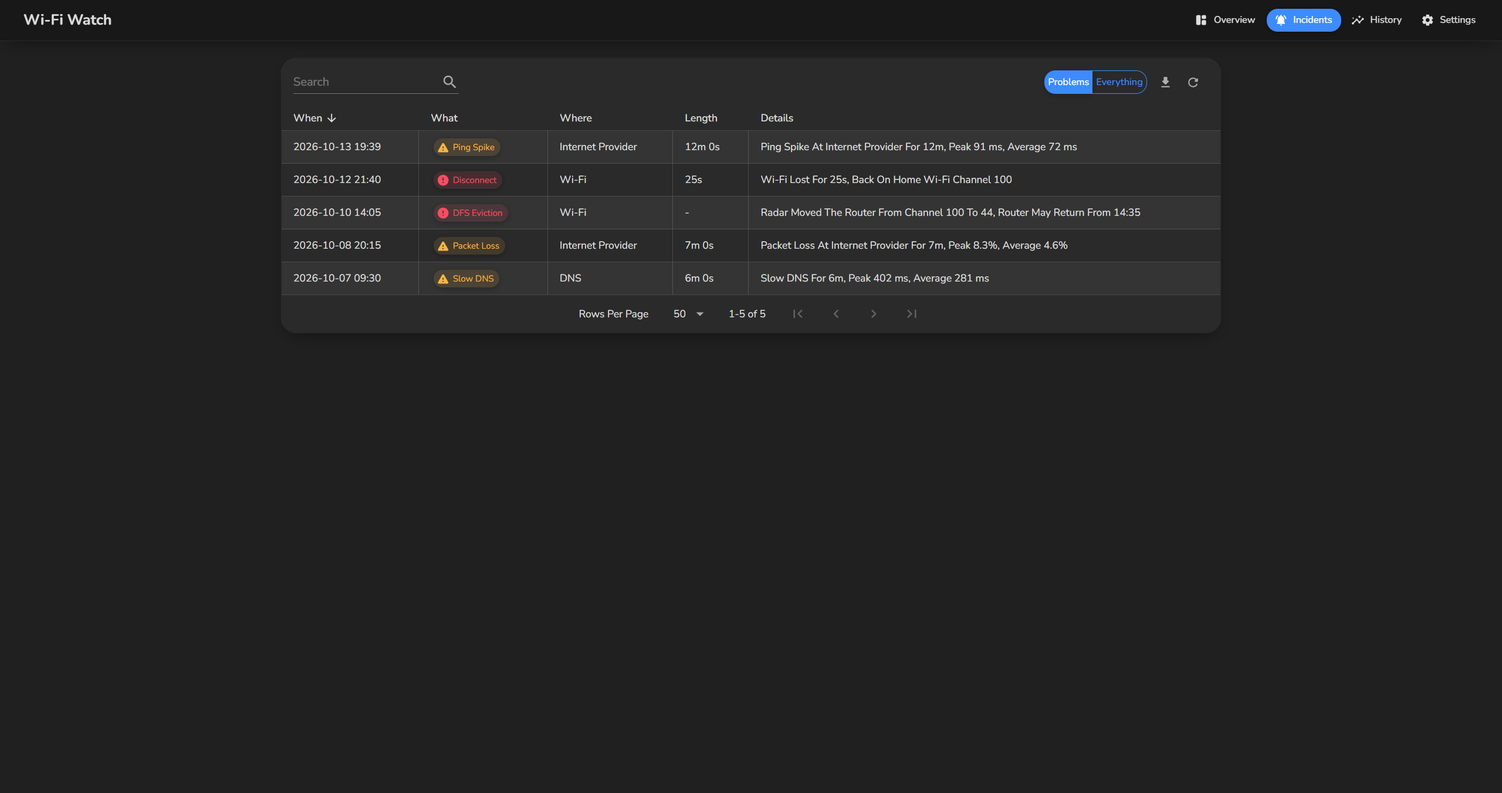
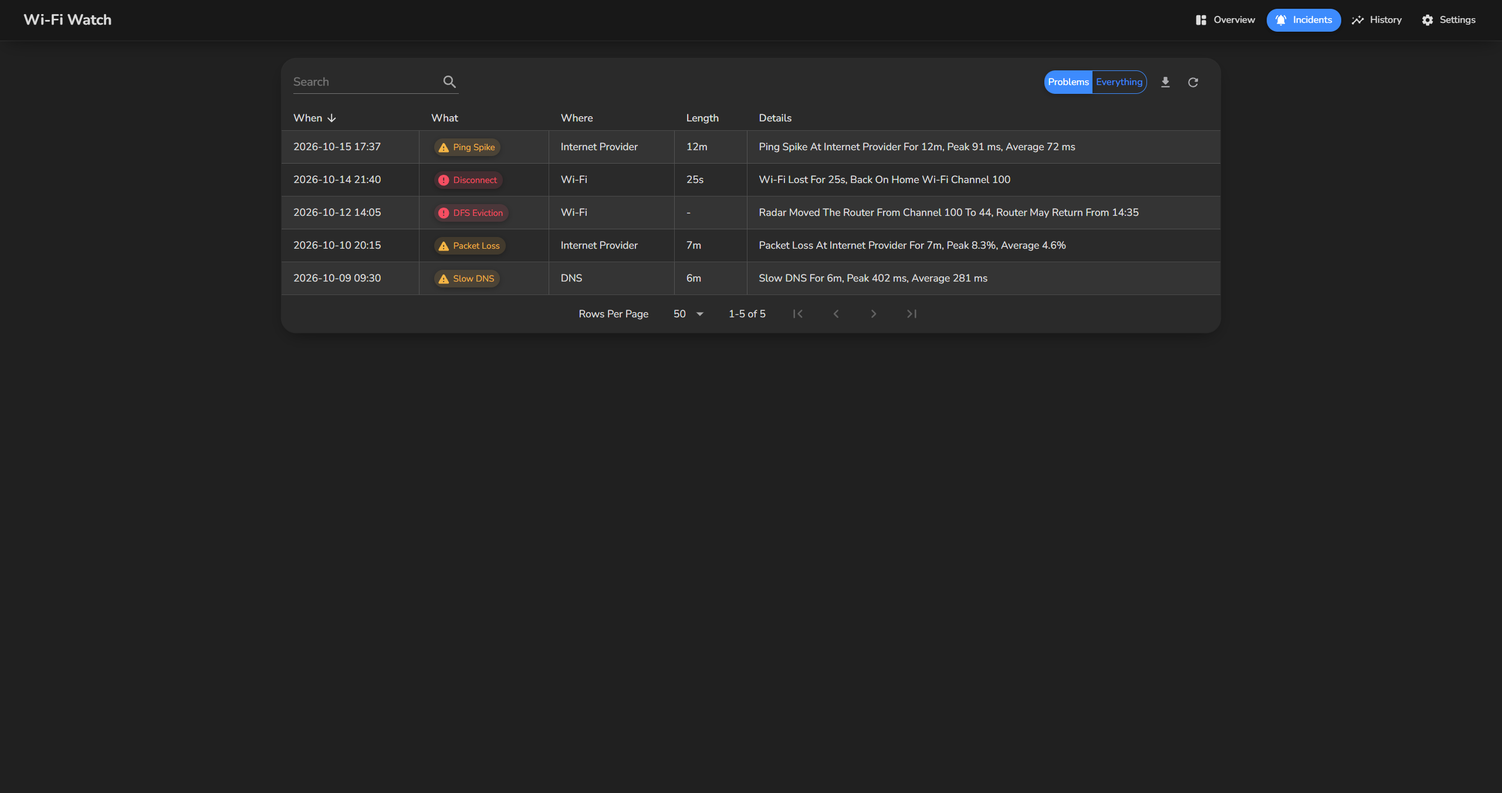
Sleep The Page In The Tray And Release 1.8

diff --git a/WiFiWatch.Desktop/MainWindow.xaml.cs b/WiFiWatch.Desktop/MainWindow.xaml.cs
@@ -1,6 +1,7 @@
 using System.ComponentModel;
 using System.Windows;
 using System.Windows.Interop;
+using Microsoft.Web.WebView2.Core;
 using MudBlazor.Utilities;
 using WiFiWatch.Data.Enums;
 using WiFiWatch.Data.Helpers;
@@ -17,6 +18,9 @@ public partial class MainWindow : Window
     private const int BalloonMilliseconds = 5000;
     private const string OpenItem = "Open";
     private const string ExitItem = "Exit";
+
+    // A Quick Hide And Show Never Suspends
+    private static readonly TimeSpan s_suspendDelay = TimeSpan.FromSeconds(1);
 
     private readonly Forms.NotifyIcon _trayIcon;
     private bool _isExiting;
@@ -37,6 +41,7 @@ public partial class MainWindow : Window
             eventArgs.WebView.DefaultBackgroundColor = Drawing.Color.FromArgb(0x20, 0x20, 0x20);
         SourceInitialized += (_, _) => WindowCaptionTheme.Apply(this);
         StateChanged += (_, _) => HideWhenMinimized();
+        IsVisibleChanged += (_, _) => _ = RestPageAsync();
 
         // Windows Shutting Down Must Never Be Held Up
         Application.Current.SessionEnding += (_, _) => _isExiting = true;
@@ -164,6 +169,45 @@ public partial class MainWindow : Window
         {
             Hide();
         }
+    }
+
+    private async Task RestPageAsync()
+    {
+        // Not Shown Since Sign In, No Browser Yet
+        if (WebView.WebView is not { CoreWebView2: { } browser } control)
+            return;
+
+        if (IsVisible)
+        {
+            control.Visibility = Visibility.Visible;
+            ResumePage(browser);
+            return;
+        }
+
+        // In The Tray The Browser Sleeps And Frees Memory
+        control.Visibility = Visibility.Hidden;
+        browser.MemoryUsageTargetLevel = CoreWebView2MemoryUsageTargetLevel.Low;
+        await Task.Delay(s_suspendDelay);
+        if (IsVisible)
+            return;
+
+        await browser.TrySuspendAsync();
+
+        // Shown Again While It Was Suspending
+        if (IsVisible)
+        {
+            ResumePage(browser);
+        }
+    }
+
+    private static void ResumePage(CoreWebView2 browser)
+    {
+        if (browser.IsSuspended)
+        {
+            browser.Resume();
+        }
+
+        browser.MemoryUsageTargetLevel = CoreWebView2MemoryUsageTargetLevel.Normal;
     }
 
     protected override void OnClosing(CancelEventArgs eventArgs)

diff --git a/WiFiWatch.Data/Helpers/Formatter.cs b/WiFiWatch.Data/Helpers/Formatter.cs
@@ -1,3 +1,4 @@
+using System.Diagnostics;
 using System.Globalization;
 using WiFiWatch.Data.Models;
 
@@ -5,13 +6,17 @@ namespace WiFiWatch.Data.Helpers;
 
 public static class Formatter
 {
+    static Formatter() => Debug.Assert(SelfTestPasses());
+
     public static string FormatDuration(TimeSpan duration)
     {
-        // The Two Largest Parts, Seconds Only Under A Minute
-        return duration.TotalDays >= 1 ? $"{(int)duration.TotalDays}d {duration.Hours}h"
-            : duration.TotalHours >= 1 ? $"{(int)duration.TotalHours}h {duration.Minutes}m"
-            : duration.TotalMinutes >= 1 ? $"{duration.Minutes}m {duration.Seconds}s"
-            : $"{Math.Max(0, duration.Seconds)}s";
+        // The Two Largest Parts, A Zero Second Part Says Nothing
+        var (whole, part, partUnit) =
+            duration.TotalDays >= 1 ? ($"{(int)duration.TotalDays}d", duration.Hours, "h")
+            : duration.TotalHours >= 1 ? ($"{(int)duration.TotalHours}h", duration.Minutes, "m")
+            : duration.TotalMinutes >= 1 ? ($"{duration.Minutes}m", duration.Seconds, "s")
+            : ($"{Math.Max(0, duration.Seconds)}s", 0, "s");
+        return part == 0 ? whole : $"{whole} {part}{partUnit}";
     }
 
     public static string? FormatIncidentLength(DateTime occurredAtUtc, DateTime? endedAtUtc)
@@ -53,4 +58,12 @@ public static class Formatter
 
     public static string FormatCount(int count, string noun) =>
         count == 1 ? $"1 {noun}" : $"{count} {noun}s";
+
+    private static bool SelfTestPasses() =>
+        FormatDuration(TimeSpan.FromMinutes(2)) == "2m"
+        && FormatDuration(TimeSpan.FromSeconds(125)) == "2m 5s"
+        && FormatDuration(TimeSpan.FromMinutes(60)) == "1h"
+        && FormatDuration(TimeSpan.FromHours(26)) == "1d 2h"
+        && FormatDuration(TimeSpan.FromSeconds(25)) == "25s"
+        && FormatDuration(TimeSpan.FromSeconds(-3)) == "0s";
 }

diff --git a/WiFiWatch.Desktop/Components/Pages/OverviewPage.razor.cs b/WiFiWatch.Desktop/Components/Pages/OverviewPage.razor.cs
@@ -1,3 +1,4 @@
+using System.Windows;
 using Microsoft.AspNetCore.Components;
 using Microsoft.EntityFrameworkCore;
 using MudBlazor;
@@ -20,6 +21,9 @@ public partial class OverviewPage : IDisposable
 
     [Inject]
     public required IDialogService DialogService { get; set; }
+
+    [Inject]
+    public required MainWindow Window { get; set; }
 
     [Parameter]
     public EventCallback IncidentsRequested { get; set; }
@@ -53,10 +57,20 @@ public partial class OverviewPage : IDisposable
         // Reloads The Moment New Data Lands, Nothing Polls
         Monitor.EventRecorded += OnDataRecorded;
         Monitor.MinuteRecorded += OnDataRecorded;
+        Window.IsVisibleChanged += OnVisibleChanged;
         await LoadAsync();
     }
 
-    private void OnDataRecorded() => InvokeAsync(LoadAsync);
+    private void OnDataRecorded() => InvokeAsync(LoadWhileSeenAsync);
+
+    private void OnVisibleChanged(object sender, DependencyPropertyChangedEventArgs eventArgs) =>
+        InvokeAsync(LoadWhileSeenAsync);
+
+    private Task LoadWhileSeenAsync()
+    {
+        // A Hidden Window Catches Up Once Shown
+        return Window.IsVisible ? LoadAsync() : Task.CompletedTask;
+    }
 
     private async Task LoadAsync()
     {
@@ -95,6 +109,7 @@ public partial class OverviewPage : IDisposable
     {
         Monitor.EventRecorded -= OnDataRecorded;
         Monitor.MinuteRecorded -= OnDataRecorded;
+        Window.IsVisibleChanged -= OnVisibleChanged;
         GC.SuppressFinalize(this);
     }
 }

diff --git a/WiFiWatch.Desktop/Components/Pages/HistoryPage.razor.cs b/WiFiWatch.Desktop/Components/Pages/HistoryPage.razor.cs
@@ -1,3 +1,4 @@
+using System.Windows;
 using ApexCharts;
 using Microsoft.AspNetCore.Components;
 using Microsoft.EntityFrameworkCore;
@@ -117,6 +118,7 @@ public partial class HistoryPage : IDisposable
     protected override async Task OnInitializedAsync()
     {
         Monitor.MinuteRecorded += OnMinuteRecorded;
+        Window.IsVisibleChanged += OnVisibleChanged;
         await LoadAsync();
     }
 
@@ -131,6 +133,9 @@ public partial class HistoryPage : IDisposable
     }
 
     private void OnMinuteRecorded() => InvokeAsync(RefreshTodayAsync);
+
+    private void OnVisibleChanged(object sender, DependencyPropertyChangedEventArgs eventArgs) =>
+        InvokeAsync(RefreshTodayAsync);
 
     #region Range Methods
     private async Task ApplyPresetAsync(int dayCount)
@@ -373,6 +378,7 @@ public partial class HistoryPage : IDisposable
     public void Dispose()
     {
         Monitor.MinuteRecorded -= OnMinuteRecorded;
+        Window.IsVisibleChanged -= OnVisibleChanged;
         GC.SuppressFinalize(this);
     }
 

diff --git a/WiFiWatch.Services/Monitoring/NetworkMonitor.cs b/WiFiWatch.Services/Monitoring/NetworkMonitor.cs
@@ -34,7 +34,7 @@ public sealed class NetworkMonitor
 
     // Cadence And Limits
     private const int PingTimeoutMilliseconds = 1000;
-    private const int LinkCheckEverySeconds = 5;
+    private const int LinkCheckEverySeconds = 30;
     private const int WiFiReadEverySeconds = 5;
     private const int WlanReadEverySeconds = 5;
     private const int DnsProbeEverySeconds = 15;
@@ -129,7 +129,11 @@ public sealed class NetworkMonitor
 
     public event Action? UpdateFound;
 
-    public void Start() => _ = RunAsync();
+    public void Start()
+    {
+        // Off The UI Thread, Or Every Tick Resumes On It
+        _ = Task.Run(RunAsync);
+    }
 
     #region Loop Methods
     private async Task RunAsync()

diff --git a/CLAUDE.md b/CLAUDE.md
@@ -25,7 +25,7 @@ The global `~/.claude/CLAUDE.md` holds every shared convention (git, releases, c
 | `Models/` | `WiFiEvent`, `MinuteSample`, `NeighborSample`, `SpeedTest` (the tables) |
 | `ViewModels/` | Records that are never tables: `MonitorStatus`, `WiFiReading`, `NeighborReading`, `AdapterInfo`, `EventDetails` (JSON in `WiFiEvent.Details`), `TraceHop`, `PeriodSummary`, `WlanNotice`, `ChartPoint`, `HealthBucket`, `HourSummary`, `ChannelBlock`, `SpeedTestProgress` |
 | `Enums/` | `EventKind`, `EventSeverity`, `HealthState`, `SpeedTestPhase` |
-| `Helpers/` | `AppInfo` (display name, version), `WiFiChannels` (DFS and weather radar ranges, timers), `Formatter` (durations, local times, numbers with units, `FormatCount` for 1 Problem or 2 Problems), `EventKindExtensions.ToLabel`, `QueryableExtensions.OrderByColumn`, `HealthBuckets` (worst state per hour or day, self-test), `Problems.IsProblem` |
+| `Helpers/` | `AppInfo` (display name, version), `WiFiChannels` (DFS and weather radar ranges, timers), `Formatter` (durations without a zero second part, local times, numbers with units, `FormatCount` for 1 Problem or 2 Problems), `EventKindExtensions.ToLabel`, `QueryableExtensions.OrderByColumn`, `HealthBuckets` (worst state per hour or day, self-test), `Problems.IsProblem` |
 | `Migrations/` | `Initial`, `AddNeighborSamples`, `AddIncidentsSpeedTestsAndDns` |
 
 ### WiFiWatch.Services
@@ -77,11 +77,11 @@ dotnet build WiFiWatch.slnx
 dotnet publish WiFiWatch.Desktop -c Release
 ```
 
-Publish writes one file, `WiFiWatch.Desktop\bin\Release\net10.0-windows10.0.17763.0\win-x64\publish\WiFiWatch_v1.7.exe`, about 80 MB. `<Version>` lives in `WiFiWatch.Desktop.csproj` only.
+Publish writes one file, `WiFiWatch.Desktop\bin\Release\net10.0-windows10.0.17763.0\win-x64\publish\WiFiWatch_v1.8.exe`, about 80 MB. `<Version>` lives in `WiFiWatch.Desktop.csproj` only.
 
 Installing is copying that exe to `%LocalAppData%\Programs\WiFiWatch` and running it once. Every Release launch rewrites the `Run` value (with `--tray`) and `Start Menu\Programs\01 Apps\Wi-Fi Watch.lnk` to point at itself. A release on GitHub carries exactly one asset named `WiFiWatch_v<version>.exe` under the tag `v<version>`, because the updater builds that URL.
 
-**Releases come from `.github/workflows/release.yml`, not from this PC**, which replaces the global `gh release create` step: bump `<Version>`, commit and push, then `git tag v1.7` and `git push origin v1.7`. The workflow publishes on `windows-latest`, uploads the exe as the `unsigned` artifact, signs it through SignPath once the `SIGNPATH_API_TOKEN` secret and the `SIGNPATH_ORGANIZATION_ID` variable exist (waiting up to an hour for the approval in SignPath), and creates the release with the exe as its only asset, unsigned until SignPath is set up. A tag that does not match `<Version>` fails the release step, because no `WiFiWatch_<tag>.exe` exists. A manual run only builds and uploads. `IncludeSourceRevisionInInformationalVersion` is off so the product version is exactly the `<Version>`, which SignPath's metadata check compares, and `Company` replaces the default, which was the assembly name.
+**Releases come from `.github/workflows/release.yml`, not from this PC**, which replaces the global `gh release create` step: bump `<Version>`, commit and push, then `git tag v1.8` and `git push origin v1.8`. The workflow publishes on `windows-latest`, uploads the exe as the `unsigned` artifact, signs it through SignPath once the `SIGNPATH_API_TOKEN` secret and the `SIGNPATH_ORGANIZATION_ID` variable exist (waiting up to an hour for the approval in SignPath), and creates the release with the exe as its only asset, unsigned until SignPath is set up. A tag that does not match `<Version>` fails the release step, because no `WiFiWatch_<tag>.exe` exists. A manual run only builds and uploads. `IncludeSourceRevisionInInformationalVersion` is off so the product version is exactly the `<Version>`, which SignPath's metadata check compares, and `Company` replaces the default, which was the assembly name.
 
 The workflow uses `actions/checkout@v7`, `actions/setup-dotnet@v6` (SDK `10.0.x`), `actions/upload-artifact@v7` (zipped, which the `<zip-file>` root of the artifact configuration expects) and `signpath/github-action-submit-signing-request@v3`, with `actions: read` and `contents: write`, all bash steps on the Windows runner. `gh workflow run release.yml` is the dry run and `gh run watch` follows it. Only the newest release is kept: once a new one is live, `gh release delete v<old> --yes --cleanup-tag`; old installs still find the new one through `releases/latest`. The global rule to launch the exe alone in an empty folder is met by installing the release asset outside the Claude container (an `explorer.exe` script copying it into `%LocalAppData%\Programs\WiFiWatch`), or by Update Now in the installed app, which tests the updater on the way.
 
@@ -126,7 +126,7 @@ Times are stored as UTC and shown local. EF reads them back as `Unspecified`, an
 
 ## The Monitor
 
-One `PeriodicTimer` at 1 s in `NetworkMonitor.RunAsync`. Each tick pings the gateway and `1.1.1.1` in parallel. The link and gateway (Ethernet before Wi-Fi) are re-read when `NetworkChange.NetworkAddressChanged` fires and every 5th tick, because listing adapters was three quarters of the app's CPU. Every 5th tick reads Wi-Fi through `netsh` and the WLAN event log, every 15th times DNS, every 300th scans neighbors, but only once a Wi-Fi reading has named our own network: the tick 0 scan ran beside the first read and stored our own access point as a neighbor (`IsOwn` false) on many starts up to v1.6. At each minute boundary the readings fold into one `MinuteSample`, the per-minute checks run on it, and `MinuteRecorded` fires, which is what the pages reload on instead of polling. The UI never makes the monitor measure anything extra. A tick gap over 30 s means the PC slept: every open incident closes at the last tick before it (", Cut Short By Sleep"), the condition tracker starts over, the last Wi-Fi reading is forgotten so the reconnect after waking is not a drop, then `Resumed` is logged and the quiet window restarts. A failure inside a tick logs one `MonitorFailed` per streak and the loop carries on. On Ethernet no Wi-Fi is read at all (no `netsh`), the last reading is cleared so Overview shows the cable rather than a Wi-Fi network carrying nothing, and moving onto Ethernet closes an open Wi-Fi Lost or Location Blocked incident; neighbor scans stop too, they would only store rows nobody sees. Ping samples are only kept while a gateway exists: seconds with no network at all are a drop, already logged as one, and counting them as loss turned a 10 s unplug into a second, Critical Packet Loss incident before v1.6. A minute row carries the link at the moment it closes, so a minute that moved from Wi-Fi onto a cable can hold an SSID next to Link Ethernet.
+One `PeriodicTimer` at 1 s in `NetworkMonitor.RunAsync`, started through `Task.Run` so the loop lives on the thread pool: started from `OnStartup` it ran on the WPF UI thread up to v1.7, every await resuming there, so adapter listing, event log reads, `netsh` parsing and SQLite writes all queued in front of the page. Its events therefore fire on pool threads, and every subscriber marshals (`InvokeAsync`, `Dispatcher.InvokeAsync`). Each tick pings the gateway and `1.1.1.1` in parallel. The link and gateway (Ethernet before Wi-Fi) are re-read when `NetworkChange.NetworkAddressChanged` fires and every 30th tick as a fallback, because listing adapters costs about 6 ms of CPU. Every 5th tick reads Wi-Fi through `netsh` and the WLAN event log, every 15th times DNS, every 300th scans neighbors, but only once a Wi-Fi reading has named our own network: the tick 0 scan ran beside the first read and stored our own access point as a neighbor (`IsOwn` false) on many starts up to v1.6. At each minute boundary the readings fold into one `MinuteSample`, the per-minute checks run on it, and `MinuteRecorded` fires, which is what the pages reload on instead of polling. The UI never makes the monitor measure anything extra. A tick gap over 30 s means the PC slept: every open incident closes at the last tick before it (", Cut Short By Sleep"), the condition tracker starts over, the last Wi-Fi reading is forgotten so the reconnect after waking is not a drop, then `Resumed` is logged and the quiet window restarts. A failure inside a tick logs one `MonitorFailed` per streak and the loop carries on. On Ethernet no Wi-Fi is read at all (no `netsh`), the last reading is cleared so Overview shows the cable rather than a Wi-Fi network carrying nothing, and moving onto Ethernet closes an open Wi-Fi Lost or Location Blocked incident; neighbor scans stop too, they would only store rows nobody sees. Ping samples are only kept while a gateway exists: seconds with no network at all are a drop, already logged as one, and counting them as loss turned a 10 s unplug into a second, Critical Packet Loss incident before v1.6. A minute row carries the link at the moment it closes, so a minute that moved from Wi-Fi onto a cable can hold an SSID next to Link Ethernet.
 
 ### Incidents, Not Loose Rows
 
@@ -167,7 +167,7 @@ After 60 ticks on each new day: write yesterday's summary if missing ("yyyy-MM-d
 
 ## Measurements
 
-- **netsh lines end in `\r\n`**, so a value pattern is `.*` plus `Trim`. Labels are English, so a non-English Windows breaks parsing; Read Wi-Fi Natively avoids it. The native read was checked on this PC: identical values, about 8 ms instead of 65 ms, no process started, and no location in use record. It stays off by default, `netsh` is the proven path. The neighbor scan always uses `netsh`. Link rates can be decimals (`286.8`).
+- **netsh lines end in `\r\n`**, so a value pattern is `.*` plus `Trim`. Labels are English, so a non-English Windows breaks parsing; Read Wi-Fi Natively avoids it. A console app on this PC reads identical values natively in about 7 ms, but inside the app process (Debug build, inside and outside the Claude container, UI or pool thread) `WlanQueryInterface` returns `ERROR_ACCESS_DENIED`, so the app logs Location Blocked; Windows 11 tracks a location prompt per executable (`ConsentStore\location\NonPackaged\Executables`, `GlobalPromptShown`). So it stays off by default and must not become the default until it works in the real exe; `netsh` is the proven path. The neighbor scan always uses `netsh`. Link rates can be decimals (`286.8`).
 - **Location services must be on.** Windows 11 hides Wi-Fi details from `netsh` without it. `netsh.exe` does the WLAN call, so only Location services and "Let desktop apps access your location" matter.
 - **DNS timing** sends a raw UDP A query for `www.google.com`, which every resolver has cached, so it measures the resolver and not the web. A system lookup that times out counts as the full 2 s while 1.1.1.1 still answers, and the minute keeps the median of its 4 lookups, so one lost query is ignored and a resolver that stops answering opens a Critical Slow DNS.
 - **Speed test** asks `api.fast.com` for 5 Netflix servers (Netflix picks them, often inside the provider's own network; the signed URLs last an hour, so every test asks again), then runs off the UI thread with 8 parallel streams spread round robin over them for 8 s each way: plain GETs of the 25 MiB test file and 25 MB POSTs to the same URLs, counted per 1 MB as they are written. The live number is the last second; the result is the 90th percentile of those one second readings after the first 2 s. One failed stream ends the test. Pings 1.1.1.1 every 250 ms throughout, about 1 GB per test. The token is fast.com's public app token, unchanged since 2016 and used the same way by Home Assistant; fast.com has no terms of its own. Cloudflare was dropped: since 2026 it caps clients without its own Referer at roughly one test per hour (HTTP 429 for 54 minutes), and faking the Referer gets around an access control. On this PC every server lands between 540 and 640 Mbps down, because the 5 GHz Wi-Fi link (1201 Mbps link rate) is the limit, not the server. `SpeedTestDialog` shows it live through `IProgress<SpeedTestProgress>`. Grade from the added latency under load: under 5 ms A+, 30 A, 60 B, 200 C, 400 D, else F.
@@ -184,6 +184,7 @@ Update Now: `Updater.DownloadAsync` saves `WiFiWatch_v<new>.exe` beside the runn
 
 ## Window Behaviour
 
+- **A hidden page sleeps.** When the window hides, `MainWindow.RestPageAsync` hides the inner WebView2, sets its memory target to Low and after 1 s suspends it; showing resumes it. Render batches sent meanwhile are delivered on resume. Measured over 3 tray minutes after one open: WebView2 working set 351 to 33 MB, app CPU 1.8 to 0.9 s. Tearing the page down instead does not work: `BlazorWebView.DisposeAsync` never completes (the manager marks itself disposed before MudBlazor's scoped services await their script calls), and every recreated composition control leaks about 77 MB of native memory. A window never shown since sign in has no browser at all (122 MB).
 - **It never closes by itself.** Minimise hides to the tray. Close raises `MainWindow.CloseRequested`; `Home` answers with a `MudMessageBox`: Keep Running (blue, hides) or Exit. Dismissing it changes nothing. Only Exit in the dialog or tray ends the app.
 - **`SessionEnding` sets the exit flag** so Windows shutdown is never held up. `DispatcherUnhandledException` is handled and recorded through `NetworkMonitor.RecordFailureAsync`.
 - **`Home` gets the window from DI** through a factory that only runs after the window exists.
@@ -195,9 +196,9 @@ Update Now: `Updater.DownloadAsync` saves `WiFiWatch_v<new>.exe` beside the runn
 The look follows LetsWatch: navigation in the app bar, section titles above panels, cards that darken on hover. Every page answers one question.
 
 - **App bar**: the name, then four labelled page buttons (Overview, Incidents, History, Settings), the open one filled blue. A dot on Overview, amber or red, while a problem is still open. `Home` swaps pages with a plain `switch`, so every page loads fresh when opened and owns its own event subscriptions.
-- **Overview** (is it fine now, and what went wrong lately): `NowPanel` with the verdict (the worst open problem from `EventJournal.OpenProblemsAsync`, else Offline, else All Good), a What To Do line from `QuickActions.AdviceFor`, its fix button, the router button (hidden when the fix button already opens the router), Refresh, Speed Test, and live Signal, Wi-Fi Speed, Router and Internet. Values stay plain and turn amber or red only past a setting. A per-minute incident only closes after 2 good minutes, so once its last minute was good the What To Do line turns green and says Looks Fine Again (`NetworkMonitor.ClearingIncidentIds`, a snapshot taken after each minute's checks). Then the last 24 hours as a `HealthStrip`, and the six newest problems as cards that open `IncidentDialog`. It reloads on every recorded event and on every `MinuteRecorded`, so the strip rolls over each hour and nothing polls; Refresh reloads it by hand. Open incidents show Ongoing rather than a length, because a length would freeze between redraws; the live length is in the verdict.
+- **Overview** (is it fine now, and what went wrong lately): `NowPanel` with the verdict (the worst open problem from `EventJournal.OpenProblemsAsync`, else Offline, else All Good), a What To Do line from `QuickActions.AdviceFor`, its fix button, the router button (hidden when the fix button already opens the router), Refresh, Speed Test, and live Signal, Wi-Fi Speed, Router and Internet. Values stay plain and turn amber or red only past a setting. A per-minute incident only closes after 2 good minutes, so once its last minute was good the What To Do line turns green and says Looks Fine Again (`NetworkMonitor.ClearingIncidentIds`, a snapshot taken after each minute's checks). Then the last 24 hours as a `HealthStrip`, and the six newest problems as cards that open `IncidentDialog`. It reloads on every recorded event and on every `MinuteRecorded` while the window is visible, and once when it is shown again, so the strip rolls over each hour, nothing polls and nothing loads in the tray; Refresh reloads it by hand. Open incidents show Ongoing rather than a length, because a length would freeze between redraws; the live length is in the verdict.
 - **Incidents** (what happened): one `DataTable` of When, What, Where, Length and Details. Problems (by `Problems.IsProblem`) by default, Everything on the segmented toggle. Reloads on every recorded event. A row opens `IncidentDialog`: time range, message, What To Do, where in plain words, Windows reason, context, trace hops, and one fix button from `QuickActions.ForEvent`, chosen by kind and scope (a Home Network disconnect opens Ethernet settings, a Wi-Fi one the Wi-Fi page, everything local the router admin). The dialog reloads its row on every recorded event, so an open incident's end and its trace, which often lands seconds later, show while it is open.
-- **History** (how was it over a period): a `MudDateRangePicker` with Today, 7 Days and 30 Days on the left of its action bar (they apply at once) and Cancel and OK on the right, so picking days loads nothing until OK; the minutes CSV export on the right. Four tiles from `SummaryWriter.SummarizeAsync` (Online, Problems, Longest Outage, Fastest Download), the `HealthStrip` per hour up to 3 days and per day beyond, one ping chart (Router grey, Internet blue, DNS dashed violet), the Wi-Fi Channel panel, and the speed tests in range. The channel panel is a `ChannelStrip`: one cell per EU channel grouped by 80 MHz block (36 to 140, or 1 to 13 when on 2.4 GHz), yours blue, a block neighbour at 30% or more amber (it shares your airtime), audible ones elsewhere grey, the network count in each cell and, in the tooltip the channel, then one network per line with its dBm, your own first and marked Yours, numbered once there are several (`.mud-tooltip` keeps line breaks and aligns left), from one DISTINCT query (the strongest reading per network and channel is taken in memory) plus an average for airtime. A network counts as yours when any scan in the range flagged it, which repairs the old first-scan rows; your current channel without such a scan gets a plain Yours line instead. Your own network never counts as a neighbor for the colours or the advice. Radar evictions, airtime busy from your access point's BSS Load, and the advice line sit with it. While the window is visible and the range ends today, History reloads on every `MinuteRecorded` without skeletons, and the ping chart takes the new values through `UpdateSeriesAsync` rather than a new `@key`, which would blank it for a frame.
+- **History** (how was it over a period): a `MudDateRangePicker` with Today, 7 Days and 30 Days on the left of its action bar (they apply at once) and Cancel and OK on the right, so picking days loads nothing until OK; the minutes CSV export on the right. Four tiles from `SummaryWriter.SummarizeAsync` (Online, Problems, Longest Outage, Fastest Download), the `HealthStrip` per hour up to 3 days and per day beyond, one ping chart (Router grey, Internet blue, DNS dashed violet), the Wi-Fi Channel panel, and the speed tests in range. The channel panel is a `ChannelStrip`: one cell per EU channel grouped by 80 MHz block (36 to 140, or 1 to 13 when on 2.4 GHz), yours blue, a block neighbour at 30% or more amber (it shares your airtime), audible ones elsewhere grey, the network count in each cell and, in the tooltip the channel, then one network per line with its dBm, your own first and marked Yours, numbered once there are several (`.mud-tooltip` keeps line breaks and aligns left), from one DISTINCT query (the strongest reading per network and channel is taken in memory) plus an average for airtime. A network counts as yours when any scan in the range flagged it, which repairs the old first-scan rows; your current channel without such a scan gets a plain Yours line instead. Your own network never counts as a neighbor for the colours or the advice. Radar evictions, airtime busy from your access point's BSS Load, and the advice line sit with it. While the window is visible and the range ends today, History reloads on every `MinuteRecorded` and when the window is shown again, without skeletons, and the ping chart takes the new values through `UpdateSeriesAsync` rather than a new `@key`, which would blank it for a frame.
 - **`HealthStrip`** is one cell per bucket from `HealthBuckets.Build`: red for any Critical problem touching it, amber for a Warning, green when watched and fine, an outlined empty cell when the app was not running. Open problems run until now.
 - **Settings** is four sections: General switches, Problem Limits (three fields, each with a helper line), Wi-Fi Adapter chips (hidden on a PC without Wi-Fi, inspected again on every visit so a new driver or power plan shows), About with version and updates.
 - **Cable and powerline.** History hides the Wi-Fi Channel panel for a range without Wi-Fi minutes. A powerline adapter is an Ethernet bridge Windows cannot see, so a powerline PC simply looks wired: its trouble shows as ping spikes, loss and drops on Home Network, whose wording and advice name powerline adapters. Detecting the adapters for sure would take raw Ethernet frames (HomePlug AV management on EtherType 0x88E1, G.hn has its own), which Windows only allows through a packet driver such as Npcap, whose free edition may not be bundled; even TP-Link's own tool needs WinPcap. So nothing guesses at powerline.
@@ -218,13 +219,14 @@ The look follows LetsWatch: navigation in the app bar, section titles above pane
 - Old `PingSpike` rows mentioning jitter were moved to `JitterSpike` by the migration, and old rows are instants with a severity from `IsAlert`.
 - `ConditionTracker` uses `Math.Max(setting, baseline)`: the baseline only raises the bar on a naturally noisy link, never lowers it below the user's setting. It cannot rescue a limit set below someone's normal, which is why the defaults sit above common connections (Starlink and 4G run 40 to 50 ms to 1.1.1.1).
 - A saved `settings.json` keeps its old limits; defaults only fill keys that are missing, and removed keys are ignored.
-- Background cost was measured: about 0.5% of one core hidden in the tray, no measurable effect on router latency from the `netsh` reads, and the 5 minute neighbor read only returns Windows' cached list (never `WlanScan`, which takes the radio off channel). The 5 s `netsh wlan show interfaces` spawn is the biggest remaining cost on Wi-Fi (on a cable there is none). Read Wi-Fi Natively removes it and the English only limit and left no location in use record on this PC, but stays opt-in because `netsh` is the proven path.
+- Background cost was measured: about 0.3% of one core for the app hidden in the tray, no measurable effect on router latency from the `netsh` reads, and the 5 minute neighbor read only returns Windows' cached list (never `WlanScan`, which takes the radio off channel). The 5 s `netsh wlan show interfaces` spawn is the biggest remaining cost on Wi-Fi (on a cable there is none): about 52 ms of CPU in `netsh` plus 7 ms in the app per read, some 17 CPU minutes a day, invisible in the app's own CPU column. Read Wi-Fi Natively would remove it, but is denied inside the app (see Measurements).
+- Incident lengths from the per-minute checks are whole minutes, because a check only knows a minute was bad. `Formatter.FormatDuration` drops a zero second part, so they read `12m`, not `12m 0s`; rows written before v1.8 keep `0s` in their stored message.
 - The project was `WifiWatch` (shown as "Wifi Watch") up to v1.5. Windows paths, the registry, GitHub repository URLs and release asset names all ignore case, so the data folder, the `Run` value and v1.5's updater (which asks for `WifiWatch_v1.6.exe`) carry over untouched. `Updater.CanInstall` compares the exe prefix ignoring case for the same reason, settings load case-insensitively because old files say `ReadWifiNatively`, and writing the shortcut deletes the old `Wifi Watch.lnk`. The single-instance event is now `WiFiWatch.Show`; kernel names are case-sensitive, but an update waits for the old process before it checks.
 - `EventJournal.HasMessageStartingWithAsync`, `OpenProblemsAsync` and `CloseLeftoversAsync` are static; they only touch the database. Severity is stored as text, so `OpenProblemsAsync` ranks it in memory.
 
 ## Verifying
 
-- **Self-tests** run from static constructors with `Debug.Assert`: `WiFiReader`, `ChannelAdvice`, `ConditionTracker`, `DnsProbe`, `HealthBuckets`. A failing one kills a Debug launch with `FailFast` and the message `SelfTestPasses()` in the Application event log. To run them all headless, a file-based app with `#:project` pointing at `WiFiWatch.Services.csproj` and `#:property TargetFramework=net10.0-windows` can invoke every `SelfTestPasses` through reflection.
+- **Self-tests** run from static constructors with `Debug.Assert`: `WiFiReader`, `ChannelAdvice`, `ConditionTracker`, `DnsProbe`, `HealthBuckets`, `Formatter`. A failing one kills a Debug launch with `FailFast` and the message `SelfTestPasses()` in the Application event log. To run them all headless, a file-based app with `#:project` pointing at `WiFiWatch.Services.csproj` and `#:property TargetFramework=net10.0-windows` can invoke every `SelfTestPasses` through reflection.
 - **Analyzers** per project: `dotnet format analyzers <project>.csproj --verify-no-changes --severity info` and the same with `style`, for all three projects.
 - **Look at the UI** by launching with `WEBVIEW2_ADDITIONAL_BROWSER_ARGUMENTS=--remote-debugging-port=9333` and driving it over the Chrome DevTools Protocol from Node (`/json`, `Page.captureScreenshot`, `Runtime.evaluate`, `Input.dispatchMouseEvent`). The page runs at a device pixel ratio of 1.25, so CSS coordinates are screenshot pixels divided by 1.25.
 - **The update popup** can be seen by building with `-p:Version=0.9` and waiting about 70 s for the daily jobs.
